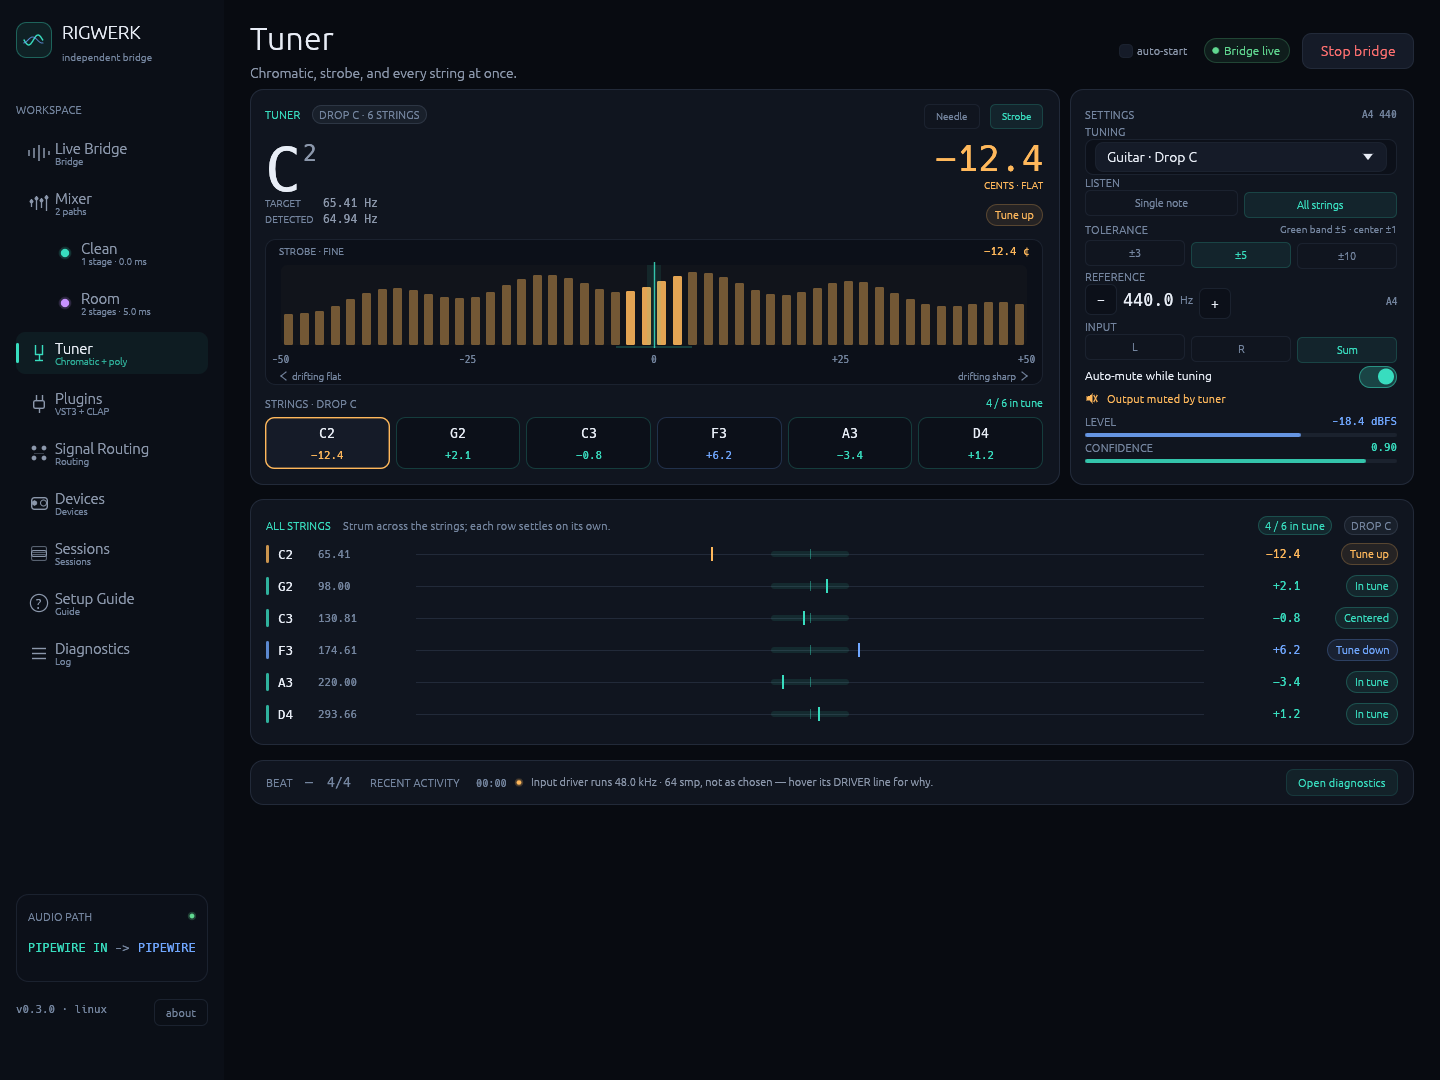
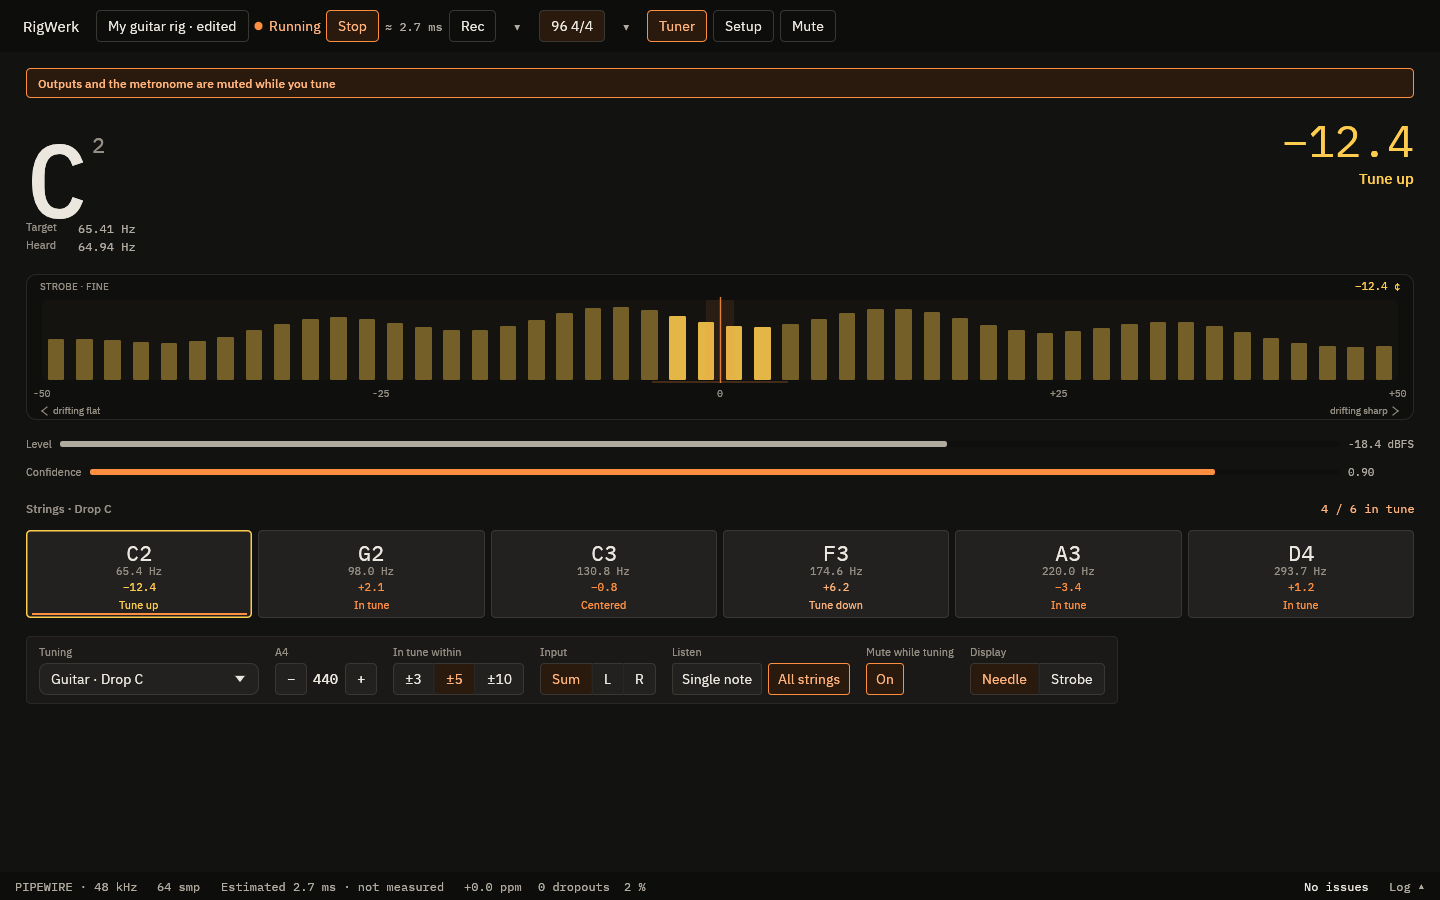
Retake the README screenshots on the new screens
- Nine images: the console with two and four paths, the light theme, the minimum size, the EQ and output sheets, the browser, the tuner and Setup
- Showcase4 copies the room's real effect, bypassed, instead of ten failing stand-ins
- The browser shot opens the selected path without adding a stand-in
- Screenshot runs drop the software renderer's startup DSP peak; the output sheet no longer repeats its title
- Link the images from the README and document the Alpine and Debian plugin paths

diff --git a/src/app/screenshot.rs b/src/app/screenshot.rs
@@ -233,8 +233,27 @@ impl RigWerkApp {
         if let Some(drive) = self.duplicate_path(room) {
             self.rename_path(drive, "Drive");
             self.set_path_mute(drive, false);
+            // Ten copies of the room's own effect, bypassed, so the chain
+            // scrolls without ten reverbs running at once.
+            let template =
+                self.engine
+                    .plugin_views(room)
+                    .first()
+                    .map(|view| crate::audio::PluginPref {
+                        path: view.path.clone(),
+                        format: view.format,
+                        class_id: view.class_id.clone(),
+                        name: view.name.clone(),
+                        bypass: true,
+                        ..crate::audio::PluginPref::default()
+                    });
             for _ in 0..10 {
-                self.add_screenshot_effect_always(drive);
+                match &template {
+                    Some(template) => {
+                        let _ = self.engine.add_plugin(drive, template.clone());
+                    }
+                    None => self.add_screenshot_effect_always(drive),
+                }
             }
         }
         if let Some(stream) = self.add_path() {

diff --git a/src/app/plugins.rs b/src/app/plugins.rs
@@ -673,14 +673,7 @@ impl RigWerkApp {
             return;
         }
         if !self.plugin_browser.screenshot_ready {
-            if self.path().name == "Main" {
-                let slot = self.selected_path;
-                let _ = self.rename_path(slot, "Room");
-            }
             let slot = self.selected_path;
-            if self.engine.plugin_views(slot).is_empty() {
-                let _ = self.engine.add_plugin(slot, screenshot_effect());
-            }
             let count = self.engine.plugin_views(slot).len();
             self.open_effect_browser(slot, count);
             self.plugin_browser.screenshot_ready = true;

diff --git a/src/app/issues.rs b/src/app/issues.rs
@@ -1043,6 +1043,11 @@ impl RigWerkApp {
     /// (c) The paths' DSP time against the block they have to fit in: the
     /// mixer's total per block, so peaks of different blocks never add up.
     fn dsp_issue(&self, infos: &[PathInfo], issues: &mut Vec<LiveIssue>) {
+        // The screenshot renderer's startup peak is not the rig's: a shot
+        // waits on Xvfb's software GL, not on audio.
+        if self.screenshot.is_some() {
+            return;
+        }
         let Some(severity) = self.issue_state.dsp.severity() else {
             return;
         };

diff --git a/src/ui/sheets/output.rs b/src/ui/sheets/output.rs
@@ -72,11 +72,6 @@ impl RigWerkApp {
 
         ui.horizontal(|ui| {
             ui.spacing_mut().item_spacing.x = 8.0;
-            ui.label(
-                RichText::new(&row.name)
-                    .font(font(Face::SansMedium, TypeRole::Title))
-                    .color(colours.text),
-            );
             badge_word(ui, badge, colours);
             ui.label(
                 RichText::new(format!("{} ch · {}", row.channels, row.backend))

diff --git a/docs/screenshots/README.md b/docs/screenshots/README.md
@@ -3,44 +3,49 @@
 The images for the [README](../../README.md), and how to take them again.
 Run the commands from the repository root.
 
-## Needs retaking
-
-Every image in this folder was taken on the previous sidebar UI. None shows
-the console, the sheets, the browser or the new Setup screen yet. The set
-below is what this UI needs. `tuner.png` exists, but it is the previous
-tuner page and is overwritten by the `RIGWERK_PAGE=tuner` command below.
-
-`live.png`, `mixer.png`, `metronome.png`, `routing.png`, `plugins.png` and
-`devices.png` show pages that no longer exist. They stay in the folder until
-the new set replaces them and are no longer linked from the README.
+The set in this folder is current: it shows the console, its sheets and the
+browser, the tuner screen and Setup. It was taken on Alpine in the project
+container with the packaged `lsp-plugins-clap` and `zam-plugins-vst3`
+effects, because the Debian plugin packages below were not available there.
+The effect names in the images (ZamComp, ZamVerb, ZamDelay) are those
+substitutes; a retake on Debian with `dragonfly-reverb-vst3` will name the
+reverb in the images instead. The layout, the strips and the sheets are the
+same either way.
 
 ## Taking the set
 
 The set is taken under `xvfb-run -a` with the null-sink graph below and
 `RIGWERK_SCREENSHOT_START=1` so the meters, the scope and the extra outputs
-show real signal. Take each page without saved preferences (a fresh `HOME`
-per page, as before), so no saved preference picks a page, a sheet or a
-theme. Use a virtual graph, not real hardware.
+show real signal. Take each file with a fresh `HOME` (no saved preferences),
+so no saved page, sheet or theme leaks in. Use a virtual graph, not real
+hardware.
 
 ```bash
 export RIGWERK_ROUTING_SETUP=showcase RIGWERK_SCREENSHOT_START=1
 export RIGWERK_SCREENSHOT_SIZE=1440x900
-export RIGWERK_SCREENSHOT_PLUGINS="1=/usr/lib/clap/lsp-plugins-clap.clap#Compressor Stereo;\
-2=/usr/lib/vst3/DragonflyRoomReverb.vst3;\
-2=/usr/lib/clap/lsp-plugins-clap.clap#Limiter Stereo"
+# Alpine:
+export RIGWERK_SCREENSHOT_PLUGINS="1=/usr/lib/vst3/ZamComp.vst3;\
+2=/usr/lib/vst3/ZamVerb.vst3;\
+2=/usr/lib/vst3/ZamDelay.vst3"
+# Debian/Ubuntu:
+# export RIGWERK_SCREENSHOT_PLUGINS="1=/usr/lib/clap/lsp-plugins-clap.clap#Compressor Stereo;\
+# 2=/usr/lib/vst3/DragonflyRoomReverb.vst3;\
+# 2=/usr/lib/clap/lsp-plugins-clap.clap#Limiter Stereo"
 
 shot() {
-  xvfb-run -a cargo run --release -- --screenshot "docs/screenshots/$1"
+  rm -rf "/tmp/shot-$1" && mkdir -p "/tmp/shot-$1"
+  HOME="/tmp/shot-$1" xvfb-run -a cargo run --release -- \
+    --screenshot "docs/screenshots/$1"
 }
 ```
 
 | File | Command | Shows |
 | --- | --- | --- |
 | `console.png` | `RIGWERK_PAGE=console shot console.png` | the console with two paths (Clean and Room) |
-| `console-4-paths.png` | `RIGWERK_ROUTING_SETUP=showcase4 shot console-4-paths.png` | the console with four paths and a long chain |
+| `console-4-paths.png` | `RIGWERK_ROUTING_SETUP=showcase4 shot console-4-paths.png` | four paths, four outputs and a long chain |
 | `console-light.png` | `RIGWERK_THEME=light shot console-light.png` | the same console in the light theme |
-| `eq-sheet.png` | `RIGWERK_SHEET=eq shot eq-sheet.png` | the EQ sheet |
-| `output-sheet.png` | `RIGWERK_SHEET=output shot output-sheet.png` | the output sheet, on the clock output |
+| `eq-sheet.png` | `RIGWERK_SHEET=eq shot eq-sheet.png` | the Pre EQ sheet on Room |
+| `output-sheet.png` | `RIGWERK_SHEET=output shot output-sheet.png` | the clock output's sheet |
 | `browser.png` | `RIGWERK_DRAWER=browser shot browser.png` | the effect browser |
 | `tuner.png` | `RIGWERK_PAGE=tuner shot tuner.png` | the tuner screen |
 | `setup.png` | `RIGWERK_PAGE=setup shot setup.png` | Setup |
@@ -50,36 +55,53 @@ The default size is 1440 × 1080; the set above asks for 1440 × 900 because
 that is the size the console is designed at. `--screenshot <file>` renders
 the window at that size and saves it, always through X11/XWayland, because
 Wayland ignores the requested size. The plugin list matters for the console
-and the EQ sheet: `showcase` selects Room, whose chain holds the reverb and
-limiter.
+and the sheets: `showcase` selects Room, whose chain holds the reverb and
+delay.
 
 ## A PipeWire graph without hardware
 
+On a distro with the `pipewire`, `wireplumber` and `dbus` packages, run this
+inside one D-Bus session, with a short runtime directory:
+
 ```bash
-pw-cli create-node adapter '{ factory.name=support.null-audio-sink
-  node.name=studio_monitors node.description="Studio Monitors"
-  media.class=Audio/Sink audio.position=[FL FR] object.linger=true
-  priority.session=2000 }'
-pw-cli create-node adapter '{ factory.name=support.null-audio-sink
-  node.name=usb_headphones node.description="USB Headphones"
-  media.class=Audio/Sink audio.position=[FL FR] object.linger=true
-  priority.session=1000 }'
-pw-cli create-node adapter '{ factory.name=support.null-audio-sink
-  node.name=guitar_interface node.description="Guitar Interface"
-  media.class=Audio/Source/Virtual audio.position=[FL FR]
-  object.linger=true priority.session=2000 }'
-pw-metadata -n settings 0 clock.force-quantum 64
-# A long plucked-string WAV, not linked by WirePlumber, then linked by hand:
-pw-cat -p --target 0 --volume 0.35 -P '{ node.name=guitar_feed }' pluck.wav &
-pw-link guitar_feed:output_FL guitar_interface:input_FL
-pw-link guitar_feed:output_FR guitar_interface:input_FR
+export XDG_RUNTIME_DIR=$(mktemp -d /tmp/pwXXXX) && chmod 700 "$XDG_RUNTIME_DIR"
+dbus-run-session -- bash -c '
+  pipewire & sleep 2
+  wireplumber & sleep 2
+  pw-cli create-node adapter "{ factory.name=support.null-audio-sink
+    node.name=studio_monitors node.description=\"Studio Monitors\"
+    media.class=Audio/Sink audio.position=[FL FR] object.linger=true
+    priority.session=2000 }"
+  pw-cli create-node adapter "{ factory.name=support.null-audio-sink
+    node.name=usb_headphones node.description=\"USB Headphones\"
+    media.class=Audio/Sink audio.position=[FL FR] object.linger=true
+    priority.session=1000 }"
+  pw-cli create-node adapter "{ factory.name=support.null-audio-sink
+    node.name=desk_speakers node.description=\"Desk Speakers\"
+    media.class=Audio/Sink audio.position=[FL FR] object.linger=true
+    priority.session=1500 }"
+  pw-cli create-node adapter "{ factory.name=support.null-audio-sink
+    node.name=guitar_interface node.description=\"Guitar Interface\"
+    media.class=Audio/Source/Virtual audio.position=[FL FR]
+    object.linger=true priority.session=2000 }"
+  pw-metadata -n settings 0 clock.force-quantum 64
+  pw-cat -p --target 0 --volume 0.35 -P "{ node.name=guitar_feed }" pluck.wav &
+  sleep 2
+  pw-link guitar_feed:output_FL guitar_interface:input_FL
+  pw-link guitar_feed:output_FR guitar_interface:input_FR
+  wait
+'
 ```
 
-The runtime directory must be short (`mktemp -d /tmp/pwXXXX`): PipeWire's
-socket path is limited to 108 bytes.  The app needs `libxkbcommon-x11-0`
-under Xvfb.  The plugins come from the Debian/Ubuntu `lsp-plugins-clap` and
-`dragonfly-reverb-vst3` packages.  In a screenshot the tuner draws a fixed
-demo frame (Drop C, strobe, all strings, auto-mute on), not the live input.
+The runtime directory must be short: PipeWire's socket path is limited to
+108 bytes. The app needs the X11 and GL packages under Xvfb (`xvfb`,
+`mesa-dri-gallium`, `libxkbcommon-x11`). On Alpine install `pipewire`,
+`pipewire-tools`, `wireplumber` and `dbus`; on Debian the equivalents in
+`.cursor/install.sh`. The plugins come from `lsp-plugins-clap` and
+`zam-plugins-vst3` (Alpine) or `lsp-plugins-clap` and
+`dragonfly-reverb-vst3` (Debian/Ubuntu). In a screenshot the tuner draws a
+fixed demo frame (Drop C, strobe, all strings, auto-mute on), not the live
+input.
 
 Environment variables for screenshot runs:
 
@@ -89,14 +111,14 @@ Environment variables for screenshot runs:
 | `RIGWERK_SHEET` | `eq`, `gate`, `effect` (a stand-in effect when the chain is empty), `path`, `output` (the clock output), `scope`, `diagnostics`; on the selected path, applied after the setup |
 | `RIGWERK_DRAWER` | `browser`, `issues` |
 | `RIGWERK_THEME` | `dark`, `light`: wins over the saved theme for the run |
-| `RIGWERK_ROUTING_SETUP` | `showcase` (the README setup); `showcase4` (the showcase plus Drive with ten stand-in effects, an empty Stream path and every other output device as an extra output); `drywet`, `sum3`, `blend`, `dualamp-off` (alignment off, the red warning) for the alignment and routing cases |
+| `RIGWERK_ROUTING_SETUP` | `showcase` (the README setup); `showcase4` (the showcase plus Drive with ten bypassed copies of the room's first effect and an empty Stream path); `drywet`, `sum3`, `blend`, `dualamp-off` (alignment off, the red warning) for the alignment and routing cases |
 | `RIGWERK_SCREENSHOT_PLUGINS` | `;` list of `<path number>=<bundle>[#<effect name>]`, used by `showcase` |
 | `RIGWERK_SCREENSHOT_SIZE` | `<w>x<h>` window size in points, from `640x480` to `7680x4320` (default `1440x1080`); a blank, unparsable or out-of-range value is logged and the default used |
 | `RIGWERK_SCREENSHOT_START` | `1` starts the bridge before the capture |
 | `RIGWERK_SCROLL` | pixels to scroll the screen down |
 
-`showcase` is the same setup on every screen: two extra outputs (one of
-them RigWerk Out), Blend clean (Clean and Room) with the effects in
+`showcase` is the same setup on every screen: two extra outputs (one of them
+RigWerk Out), Blend clean (Clean and Room) with the effects in
 `RIGWERK_SCREENSHOT_PLUGINS`, and the metronome at 96 BPM in 4/4, clicking
 on the extra headphones only. `blend`, `dualamp-off` and `sum3` fake one
 path's plugin delay (no plugin is loaded), so the alignment has something

diff --git a/README.md b/README.md
@@ -33,6 +33,8 @@ The console is the home screen. The signal runs left to right — input,
 paths, master, outputs — and every strip ends in a meter and a fader, so
 levels line up across the screen.
 
+![The console](docs/screenshots/console.png)
+
 **Title bar.** The session menu, bridge start and stop, the estimated
 latency, Rec, the metronome, Tuner, Setup and Mute. The dot beside the
 bridge reads *Stopped*, *Starting…*, *Running*, *Demo*, *Stopping…* or
@@ -57,6 +59,8 @@ where they are. The path name menu renames a path, sets its colour,
 duplicates it (muted) and removes it; path outputs (L, R) are in the path
 sheet.
 
+![Four paths](docs/screenshots/console-4-paths.png)
+
 **Master.** One level and one mute for the sum of all paths.
 
 **Outputs.** The clock output first, then the extra outputs. An output
@@ -69,6 +73,8 @@ that fails stays silent and is retried; the clock output keeps playing.
 At the 1040 × 700 minimum the strips get denser, and the paths group
 scrolls sideways when not all four fit. Everything a narrow step hides
 stays in that item's sheet.
+
+![The console at the minimum size](docs/screenshots/console-1040x700.png)
 
 **Status bar.** Drivers and rates, buffer sizes, the estimated and the
 measured latency, drift, dropouts, total DSP load, and the newest log line
@@ -124,6 +130,10 @@ shows a thin meter.
 - **Scope** shows input and output overlaid, with the peaks and the sample
   count.
 
+![The EQ sheet](docs/screenshots/eq-sheet.png)
+
+![The output sheet](docs/screenshots/output-sheet.png)
+
 The effects group opens the **effect browser** from its dashed *+ Add
 effect* row, or from an empty chain, and the browser lists VST3 and CLAP
 plugins found in the standard folders (and in `CLAP_PATH` or
@@ -133,6 +143,8 @@ then favourites and recently used effects. ↑/↓ chooses, Enter adds,
 Shift+Enter adds and opens the editor. *Add from path* and *Rescan* are in
 the footer. Adding, removing or reordering effects does not stall the
 audio.
+
+![The effect browser](docs/screenshots/browser.png)
 
 The **issues drawer** opens from the status bar count. Each row says what
 is wrong, what to do and where: *Show* closes the drawer and selects the
@@ -173,15 +185,14 @@ display (needle or strobe).
 *Mute while tuning* silences the outputs and the metronome while the tuner
 is open. Without a running bridge the tuner asks you to start it.
 
-![Tuner](docs/screenshots/tuner.png)
-
-*The tuner in the previous layout; the new set is being retaken (see
-[docs/screenshots](docs/screenshots/README.md)).*
+![The tuner](docs/screenshots/tuner.png)
 
 ## Setup
 
 Setup is one scrolling screen: **Ctrl+,** or *Setup*. *Done* returns to
 the console.
+
+![Setup](docs/screenshots/setup.png)
 
 On the left are the devices. **Input** lists direct drivers (ASIO,
 PipeWire, ALSA `hw:`) and system ones (WASAPI, DirectSound, MME,
@@ -211,6 +222,8 @@ On the right:
 - **Recordings**: the folder takes are written to.
 - **Help**: the setup guide for this platform, as collapsible sections,
   and *About*.
+
+![The console in the light theme](docs/screenshots/console-light.png)
 
 ## Sessions and recordings
 
